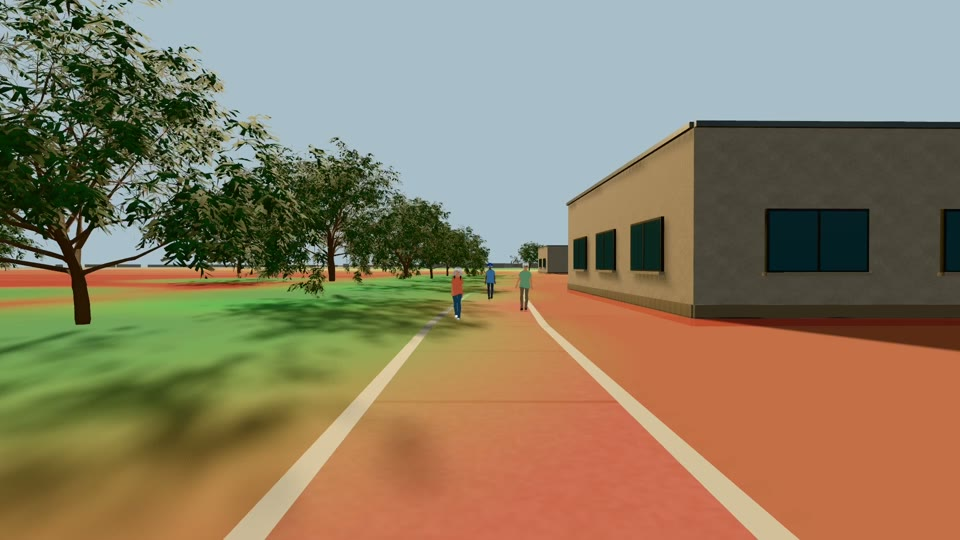
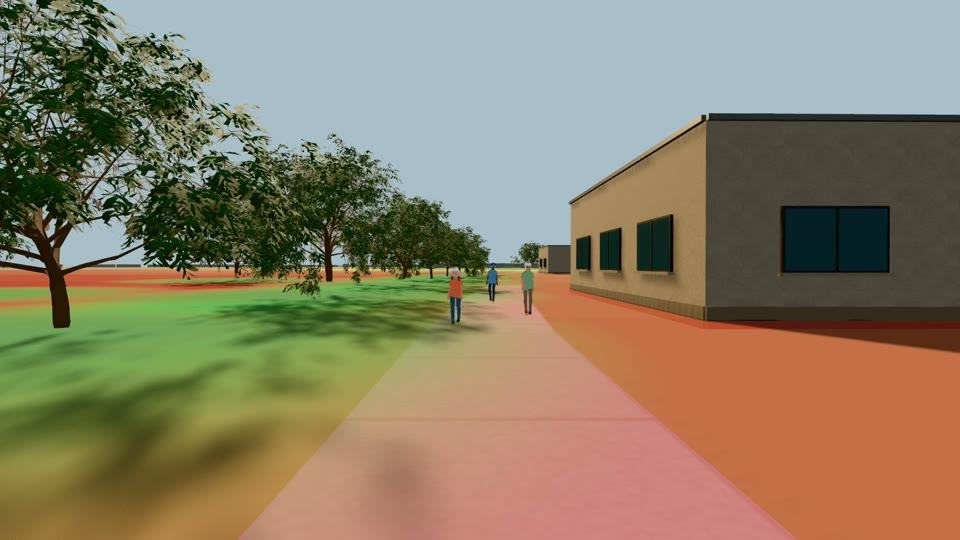
Update FutureFlux tutorial for the narrated cut

diff --git a/docs/about/tutorials/futureflux-mesa.html b/docs/about/tutorials/futureflux-mesa.html
@@ -9,23 +9,23 @@ Generated by blog-webcli (MIT). Licences this page depends on:
 <meta name="viewport" content="width=device-width, initial-scale=1">
 <link rel="stylesheet" href="https://cdnjs.cloudflare.com/ajax/libs/font-awesome/6.7.2/css/all.min.css" integrity="sha512-Evv84Mr4kqVGRNSgIGL/F/aIDqQb7xQ2vcrdIwxfjThSH8CSR7PBEakCr51Ck+w+/U6swU2Im1vVX0SVk9ABhg==" crossorigin="anonymous" referrerpolicy="no-referrer">
 <title>FutureFlux: From a Mesa heat map to a tree-shade proposal · Strata tutorials</title>
-<meta name="description" content="Build a one-minute Mesa heat tour in Strata: compare Landsat samples, stage tree shade, customize VRM walkers, retarget a BVH walk cycle, and add bilingual subtitles.">
+<meta name="description" content="Build a Mesa heat tour in Strata: compare Landsat samples, stage tree shade, make VRM walkers in Look, customize their outfits, and retarget a BVH walk cycle.">
 <meta name="generator" content="blog-webcli">
 <meta name="x-generator" content="blog-webcli@0.5.0">
[2 lines of base64/hex data omitted]
 <link rel="canonical" href="https://strataeditor.dev/about/tutorials/futureflux-mesa.html">
 <link rel="icon" href="https://raw.githubusercontent.com/tejaswigowda/strata-editor/71b04a54462d31995855717d63a32a5868373229/docs/favicon.svg">
 <meta property="og:type" content="website">
 <meta property="og:site_name" content="Strata tutorials">
 <meta property="og:title" content="FutureFlux: From a Mesa heat map to a tree-shade proposal">
-<meta property="og:description" content="Build a one-minute Mesa heat tour in Strata: compare Landsat samples, stage tree shade, customize VRM walkers, retarget a BVH walk cycle, and add bilingual subtitles.">
+<meta property="og:description" content="Build a Mesa heat tour in Strata: compare Landsat samples, stage tree shade, make VRM walkers in Look, customize their outfits, and retarget a BVH walk cycle.">
 <meta property="og:url" content="https://strataeditor.dev/about/tutorials/futureflux-mesa.html">
 <meta property="og:image" content="https://raw.githubusercontent.com/tejaswigowda/strata-editor/71b04a54462d31995855717d63a32a5868373229/docs/demo.png">
 <meta name="twitter:card" content="summary_large_image">
 <meta name="twitter:title" content="FutureFlux: From a Mesa heat map to a tree-shade proposal">
-<meta name="twitter:description" content="Build a one-minute Mesa heat tour in Strata: compare Landsat samples, stage tree shade, customize VRM walkers, retarget a BVH walk cycle, and add bilingual subtitles.">
+<meta name="twitter:description" content="Build a Mesa heat tour in Strata: compare Landsat samples, stage tree shade, make VRM walkers in Look, customize their outfits, and retarget a BVH walk cycle.">
 <meta name="twitter:image" content="https://raw.githubusercontent.com/tejaswigowda/strata-editor/71b04a54462d31995855717d63a32a5868373229/docs/demo.png">
-<script type="application/ld+json">{"@context":"https://schema.org","@type":"WebPage","name":"FutureFlux: From a Mesa heat map to a tree-shade proposal","description":"Build a one-minute Mesa heat tour in Strata: compare Landsat samples, stage tree shade, customize VRM walkers, retarget a BVH walk cycle, and add bilingual subtitles.","url":"https://strataeditor.dev/about/tutorials/futureflux-mesa.html","image":"https://raw.githubusercontent.com/tejaswigowda/strata-editor/71b04a54462d31995855717d63a32a5868373229/docs/demo.png","isPartOf":{"@type":"WebSite","name":"Strata tutorials","url":"https://strataeditor.dev/about/tutorials/"}}</script>
+<script type="application/ld+json">{"@context":"https://schema.org","@type":"WebPage","name":"FutureFlux: From a Mesa heat map to a tree-shade proposal","description":"Build a Mesa heat tour in Strata: compare Landsat samples, stage tree shade, make VRM walkers in Look, customize their outfits, and retarget a BVH walk cycle.","url":"https://strataeditor.dev/about/tutorials/futureflux-mesa.html","image":"https://raw.githubusercontent.com/tejaswigowda/strata-editor/71b04a54462d31995855717d63a32a5868373229/docs/demo.png","isPartOf":{"@type":"WebSite","name":"Strata tutorials","url":"https://strataeditor.dev/about/tutorials/"}}</script>
 <link rel="stylesheet" href="./style.css">
 </head>
 <body class="page-template-default page page-id-76485">
@@ -33,31 +33,18 @@ Generated by blog-webcli (MIT). Licences this page depends on:
 <header class="entry-header alignwide"><h1 class="entry-title">FutureFlux: From a Mesa heat map to a tree-shade proposal</h1>
 </header>
 <div class="entry-content">
-<div class="strata-tutorial-gis-walkway-shade">
-
-</div>
-<h1>
-FutureFlux: From a Mesa heat map to a tree-shade proposal
-</h1>
-<p class="tagline">
-Build a one-minute heat tour in Strata, from mapped geometry and Landsat observations to a proposed tree planting, animated walkers, and bilingual subtitles.
-</p>
-<p><a href="https://strataeditor.dev/about/tutorials/">All tutorials</a> · <a href="https://strataeditor.dev/about/tutorials/gis-walkway-shade.html">Build the base GIS scene by hand</a></p>
-<p>Build a three-site heat tour and a tree-shade proposal for Red Mountain Multigenerational Center in Mesa, Arizona. Start with mapped geometry, keep satellite observations separate from the design, and check each step before moving on. No language model or speech tool is needed for steps 1–8.</p>
-<h3 id="watch-the-one-minute-short">Watch the one-minute short</h3>
-<div class="wc-embed" title="FutureFlux Mesa one-minute short">
-<iframe src="https://strataeditor.dev/player/#https://cdn.jsdelivr.net/gh/tejaswigowda/renders@ac27663268bd3c7105f3de25afea9c0dac86bb84/futureflux-mesa/" title="FutureFlux Mesa one-minute short in the Strata video player" loading="lazy" allow="fullscreen" sandbox="allow-scripts" referrerpolicy="no-referrer"></iframe>
-<a href="https://strataeditor.dev/player/#https://cdn.jsdelivr.net/gh/tejaswigowda/renders@ac27663268bd3c7105f3de25afea9c0dac86bb84/futureflux-mesa/" rel="noopener noreferrer">Open the short in Strata’s video player</a>
-</div>
-<p>60 seconds, 1080p at 30 fps. Use the Strata player’s subtitle menu to switch between English and Español. <a href="https://github.com/tejaswigowda/renders/releases/download/futureflux-mesa-1min-v1/futureflux-mesa.mp4">Download the MP4</a>.</p>
+<div class="strata-tutorial-gis-walkway-shade"></div>
+<h1>FutureFlux: From a Mesa heat map to a tree-shade proposal</h1>
+<p class="tagline">Build a two-minute heat tour in Strata, from mapped geometry and Landsat observations to a proposed tree planting, animated walkers, and bilingual subtitles.</p>
+<p><a href="https://strataeditor.dev/about/tutorials/" rel="noopener noreferrer">All tutorials</a> · <a href="https://strataeditor.dev/about/tutorials/gis-walkway-shade.html" rel="noopener noreferrer">Build the base GIS scene by hand</a></p>
+<p>Build a three-site heat tour and a tree-shade proposal for Red Mountain Multigenerational Center in Mesa, Arizona. Start with mapped geometry, keep satellite observations separate from the design, and check each step before moving on. Dub is optional if you export without narration.</p>
+<h3 id="watch-the-extended-cut">Watch the extended cut</h3>
+<div class="wc-embed" title="FutureFlux Mesa extended cut"><iframe src="https://strataeditor.dev/player/#https://cdn.jsdelivr.net/gh/tejaswigowda/renders@2db2c1a258540a9e0fb139cbc181911923ac71be/futureflux-mesa-extended/" title="FutureFlux Mesa extended cut in the Strata video player" loading="lazy" allow="fullscreen" sandbox="allow-scripts" referrerpolicy="no-referrer"></iframe><a href="https://strataeditor.dev/player/#https://cdn.jsdelivr.net/gh/tejaswigowda/renders@2db2c1a258540a9e0fb139cbc181911923ac71be/futureflux-mesa-extended/" rel="noopener noreferrer">Open the extended cut in Strata’s video player</a></div>
+<p>2:01.5, 1080p at 30 fps. The narration speaks English and then Spanish in each cue. Use the Strata player’s subtitle menu to choose English or Español. <a href="https://github.com/tejaswigowda/renders/releases/download/futureflux-mesa-extended-v1/futureflux-mesa-extended.mp4" rel="noopener noreferrer">Download the MP4</a> · <a href="https://github.com/tejaswigowda/renders/releases/download/futureflux-mesa-extended-v1/futureflux-mesa.narration-retimed.en-es.srt" rel="noopener noreferrer">Download the narration SRT</a>.</p>
 <h3 id="explore-the-interactive-scene">Explore the interactive scene</h3>
-<div class="wc-embed allow-popups" title="Interactive FutureFlux Mesa scene">
-<iframe src="https://strataeditor.dev/#repo=tejaswigowda/test1&amp;file=flux.json&amp;commit=5253c454ec669b952118c4982767c20ba162834f&amp;play=false&amp;present=true" title="Interactive FutureFlux Mesa scene in Strata" loading="lazy" allow="fullscreen" sandbox="allow-scripts allow-popups allow-popups-to-escape-sandbox" referrerpolicy="no-referrer">
-</iframe>
-<a href="https://strataeditor.dev/#repo=tejaswigowda/test1&amp;file=flux.json&amp;commit=5253c454ec669b952118c4982767c20ba162834f&amp;play=false&amp;present=true" rel="noopener noreferrer">Open the pinned scene in Strata</a>
-</div>
-<p>The live call card is not available inside the embedded player. Watch it in the short above or open the pinned scene in Strata to see it there.</p>
-<p><strong>Before starting:</strong> Save unrelated work and use a separate Strata project. The <a href="https://strataeditor.dev/#repo=tejaswigowda/test1&amp;file=flux.json&amp;commit=2e3481b3e47eda46f8bcb6e2287ae8e6a6c9c39b&amp;play=false">original Mesa scene</a> is the older rehearsal fixture, not the finished film. Use the linked base tutorial for complete Shell blocks that construct the original mapped site from an empty scene.</p>
+<div class="wc-embed allow-popups" title="Interactive FutureFlux Mesa scene"><iframe src="https://strataeditor.dev/#repo=tejaswigowda/test1&amp;file=flux.json&amp;commit=4612f3d48b78f314eb810d5af468ea3cfa143708&amp;play=false&amp;present=true" title="Interactive FutureFlux Mesa scene in Strata" loading="lazy" allow="fullscreen" sandbox="allow-scripts allow-popups allow-popups-to-escape-sandbox" referrerpolicy="no-referrer"></iframe><a href="https://strataeditor.dev/#repo=tejaswigowda/test1&amp;file=flux.json&amp;commit=4612f3d48b78f314eb810d5af468ea3cfa143708&amp;play=false&amp;present=true" rel="noopener noreferrer">Open the pinned scene in Strata</a></div>
+<p>The live call card is not available inside the embedded scene. Watch it in the film above or open the pinned scene in Strata to see it there.</p>
+<p><strong>Before starting:</strong> Save unrelated work and use a separate Strata project. The <a href="https://strataeditor.dev/#repo=tejaswigowda/test1&amp;file=flux.json&amp;commit=2e3481b3e47eda46f8bcb6e2287ae8e6a6c9c39b&amp;play=false" rel="noopener noreferrer">original Mesa scene</a> is the older rehearsal fixture, not the finished film. Use the linked base tutorial for complete Shell blocks that construct the original mapped site from an empty scene.</p>
 <h2 id="build-the-site-from-mesa-gis">1. Build the site from Mesa GIS</h2>
 <p>Start with the <a href="https://gis.mesaaz.gov/mesaaz/rest/services?f=pjson">City of Mesa REST catalogue</a>. Use ParkFinder layer 19 path records 30121 (community center) and 30046 (park loop), and CommunityMaps layer 6 building footprint 53258. Keep those IDs on the scene groups so you can trace the meshes back to the source records.</p>
 <p>Project WGS84 records to local meters with origin <code>[-111.667328704, 33.431791272]</code>: x east, y up, z south. Turn each centerline into flat path sections and extrude the mapped footprint vertically. The 3.3 m paths and 6 m shell are assumptions, not surveyed dimensions. Keep OpenStreetMap service roads, parking, and sports fields in a separate context group so they do not replace the Mesa features.</p>
@@ -88,47 +75,27 @@ The comparison view uses one temperature palette across Encanto, Alta Mesa, and 
 <p><strong>Human check:</strong> Reload a saved copy. Trees should not change size, sink into the ground, or appear before their reveal. At eye level the material maps should still load and the façade should not change the mapped footprint.</p>
 <h2 id="make-the-shade-visible-without-changing-the-observation">5. Make the shade visible without changing the observation</h2>
 <p>Use a separate shadow receiver over the Red Mountain heat surface so the colored layer does not wash out the tree shadows. The walkthrough uses an illustrative light setup, not a dated solar study. Put the qualitative shade-benefit indicator at the top of the walkway view, and turn it green as trees appear. Keep it separate from the historical temperature legend.</p>
-<p>Tree canopies block direct sunlight, so shaded pavement absorbs less solar energy and can stay cooler than pavement in full sun. Add a separate, progressively stronger green overlay and label it <strong>Illustrative cooling · not measured</strong>. A pale stone border above the heat layers helps viewers follow the path while leaving the pavement tint visible. Neither the border nor the overlay changes the Landsat data.</p>
-<p><strong>Human check:</strong> Compare 36 s and 45 s from the same walkway camera. There should be more visible shade at 45 s, but the Landsat layer and its 51.5 °C sample should be unchanged. The green indicator must not resemble a new temperature reading.</p>
-<figure>
-<img src="./screenshots/futureflux-before.webp" alt="Red Mountain walkway and center before the proposed trees appear" width="1600" height="900">
-<figcaption>
-37 s · An earlier preview of the walkway before proposed planting.
-</figcaption>
-</figure>
-<figure>
-<img src="./screenshots/futureflux-shade.webp" alt="Same Red Mountain walkway with proposed mesquites along the left side" width="1600" height="900">
-<figcaption>
-45 s · An earlier preview after all 18 proposed mesquites appear. These two stills predate the final walkers and walkway border.
-</figcaption>
-</figure>
+<p>Tree canopies block direct sunlight, so shaded pavement absorbs less solar energy and can stay cooler than pavement in full sun. Add a separate, progressively stronger green overlay and label it <strong>Illustrative cooling · not measured</strong>. Remove the separate walkway outline and tint alternating slabs pale blue-gray so viewers can follow the path under the heat overlay. Neither the slab colors nor the overlay changes the Landsat data.</p>
+<p><strong>Human check:</strong> Compare 1:19 and 1:42 from the same walkway camera. There should be more visible shade at 1:42, but the Landsat layer and its 51.5 °C sample should be unchanged. The green indicator must not resemble a new temperature reading.</p>
+<p>RAWHOLD5TOKEN RAWHOLD6TOKEN</p>
 <h2 id="animate-and-check-the-three-shots">6. Animate and check the three shots</h2>
 <p>In <strong>Render → Video → Camera Sequence</strong>, use a city opening camera, a comparison camera, and an eye-level walkway camera. Animate the city camera down toward Encanto while fading the city group. Match the first two cameras’ position, aim, and field of view at the handoff so the viewport does not jump even when it is not compositing the export fade.</p>
-<ul>
-<li><strong>0–12 s:</strong> Hold the city view, start the eased push-in at 4 s, fade the title and boundary from 5 to 9 s, and switch cameras at about 9 s. Settle over Encanto at 12 s.</li>
-<li><strong>12–36 s:</strong> Hold Encanto, pull back to show the first distance arrow, settle over Alta Mesa at 21 s, and pull back for the second arrow. Reach Red Mountain at 30 s, then descend from 32 to 36 s.</li>
-<li><strong>36–48 s:</strong> Glide forward at eye level without changing the lens. Reveal three proposed trees at 38 s, eight total at 41 s, and eighteen at 44 s.</li>
-</ul>
+<ul><li><strong>0:00–0:20:</strong> Open over Mesa, then fade to the matched comparison camera at 0:14.5 and push in on Encanto.</li><li><strong>0:20–1:18:</strong> Start the site close-ups at 0:20 (Encanto), 0:43 (Alta Mesa), and 1:05.5 (Red Mountain). Keep the site labels readable while both languages are spoken; pull back between sites to show the distance arrows.</li><li><strong>1:18–1:49.5:</strong> Glide forward at eye level. Reveal three proposed trees at 1:26.5, eight total at 1:33, and eighteen at 1:40.</li></ul>
 <p><strong>Human check:</strong> Enable the timeline’s follow-camera checkbox and use <strong>as render</strong>. Scrub backward and forward across the first handoff and all three planting beats. The opening should restore on rewind, the camera should not snap at the switch, and the planting counts should agree with the indicator.</p>
 <h2 id="import-customize-and-animate-the-walkers">7. Import, customize, and animate the walkers</h2>
-<ol type="1">
-<li>Import the three <code>.vrm</code> files into Strata and name their root groups <strong>Maya</strong>, <strong>Alex</strong>, and <strong>Jordan</strong>. Remove the old placeholder bodies and heads only after checking that no timeline track targets them. Place the new roots within the stone borders at human scale.</li>
-<li>In <strong>Customize → Wardrobe</strong>, select each avatar by name and use <strong>Recolor</strong> on the existing top and bottom. Maya wears rust and navy, Alex sage and brown, and Jordan blue and charcoal. Recolor the existing garments instead of adding new meshes that would need skin weights.</li>
-<li>Parse <code>walk-cycle.bvh</code> with Three.js <code>BVHLoader</code>. This file has 42 samples at about 24 fps. Map the source joints to the VRoid <code>J_Bip_</code> bones: <code>Hips</code> to <code>C_Hips</code>, <code>Ab</code> to <code>C_Spine</code>, <code>LeftShoulder</code> to <code>L_UpperArm</code>, and <code>LeftHip</code>, <code>LeftKnee</code>, and <code>LeftAnkle</code> to <code>L_UpperLeg</code>, <code>L_LowerLeg</code>, and <code>L_Foot</code>, with equivalent right-side mappings. Include spine, collar, head, elbow, and wrist rotation. In this scene the BVH faces +Z while the avatars face local −Z, so convert the rotations with a half-turn about Y. Do not copy the BVH’s joint offsets or its raw hip height over the VRM rest skeleton.</li>
-<li>Scale the source’s forward travel using each avatar’s leg length and direct it along the path. Offset the loop phases so their feet do not land together. Sample the shoe meshes when baking to calibrate root height to the pavement, then save the 19 bone-rotation tracks and two root-transform tracks per avatar. The finished clips use the source cycle from <strong>36.25 to 48 seconds</strong>; the closing card covers the motion hold after that. These clips were retargeted directly in Strata with the loader and saved as imported clips, not generated in the Customize tab.</li>
-</ol>
+<ol><li>Make <strong>Maya</strong>, <strong>Alex</strong>, and <strong>Jordan</strong> in <a href="https://look.webcli.app/" rel="noopener noreferrer">Look (look.webcli.app)</a>. Start with a bundled base VRM or open your own, customize the character in Look, then export a <code>.vrm</code> for each walker. Import those three files into Strata, name the root groups, and place the walkers on the slabs at human scale. Remove the old placeholders only after checking that no timeline track targets them.</li><li>In <strong>Customize → Wardrobe</strong>, select each avatar by name and use <strong>Recolor</strong> on the existing top and bottom. Maya wears rust and navy, Alex sage and brown, and Jordan blue and charcoal. Recolor the existing garments instead of adding new meshes that would need skin weights.</li><li>Parse <code>walk-cycle.bvh</code> with Three.js <code>BVHLoader</code>. This file has 42 samples at about 24 fps. Map the source joints to the VRoid <code>J_Bip_</code> bones: <code>Hips</code> to <code>C_Hips</code>, <code>Ab</code> to <code>C_Spine</code>, <code>LeftShoulder</code> to <code>L_UpperArm</code>, and <code>LeftHip</code>, <code>LeftKnee</code>, and <code>LeftAnkle</code> to <code>L_UpperLeg</code>, <code>L_LowerLeg</code>, and <code>L_Foot</code>, with equivalent right-side mappings. Include spine, collar, head, elbow, and wrist rotation. In this scene the BVH faces +Z while the avatars face local −Z, so convert the rotations with a half-turn about Y. Do not copy the BVH’s joint offsets or its raw hip height over the VRM rest skeleton.</li><li>Scale the source’s forward travel using each avatar’s leg length and direct it along the path. Offset the loop phases so their feet do not land together. Sample the shoe meshes when baking to calibrate root height to the pavement, then save the 19 bone-rotation tracks and two root-transform tracks per avatar. The extended cut retimes those clips to the walkway dolly, from <strong>1:18.25 to 1:49.5</strong>. The motion was retargeted directly in Strata, not generated in Look or the Customize tab.</li></ol>
 <p>The imported meshes initially repeated unreferenced vertices across material groups. Compact each indexed group without changing the geometry it draws, then store in-range facial morph deltas with normalized 16-bit integers. The subsequent optimization reduced character geometry in the saved scene from 64.7 MB to 41.5 MB without removing expressions, textures, or rigs.</p>
 <figure>
-<img src="./screenshots/futureflux-final-walkway.jpg" alt="Three walkers in rust, blue, and sage on the outlined Red Mountain path" width="960" height="540" loading="lazy">
+<img src="./screenshots/futureflux-final-walkway.jpg" alt="Three walkers in rust, blue, and sage on the Red Mountain walkway" width="960" height="540" loading="lazy">
 <figcaption>
-42 s · The final render shows the retargeted walkers, the stone border, and the illustrative cooling overlay.
+1:36 · Maya, Alex, and Jordan walk along the recolored slabs beside the illustrative cooling overlay.
 </figcaption>
 </figure>
 <p><strong>Human check:</strong> Scrub several parts of the final shot and rewind. Check for moving knees, opposed arm swing, feet close to the pavement, distinct strides, and no walkers leaving the path. Reopen a copy and check that all three imported clips still target the correct bones.</p>
 <h2 id="add-bilingual-subtitles-the-call-card-and-export">8. Add bilingual subtitles, the call card, and export</h2>
 <p>Open <strong>Render → Subtitles</strong> and import timed SRT cues. The bilingual format uses English first and Spanish second. The three historical samples are <strong>137.3 °F, 120.4 °F, and 124.7 °F</strong> in English and <strong>58,5 °C, 49,1 °C, and 51,5 °C</strong> in Spanish. Close by explaining that the proposed trees provide shade, not a measured temperature drop.</p>
-<p>Fade in Strata’s first-party call card and a dark backdrop after the last cue at 48 seconds. Hold the card in the authored timeline through <strong>58 seconds</strong>; Strata adds a <strong>two-second render tail</strong>, for exactly <strong>60 seconds</strong> in the export. The editor loads the current call card live; the offline render bakes that version into the film.</p>
-<p>In <strong>Render → Video</strong>, leave <strong>Skip First</strong> at <strong>None</strong>. The one-minute export uses <strong>1080p at 30 fps (1,800 frames)</strong>. The embedded Strata video player offers separate English and Spanish subtitles from the scene’s timed cues. Leave the call card free of overlapping cues so viewers have time to scan the QR code.</p>
+<p>After the final cue, keep the same walkway camera and crane up to a tight, directly overhead view. Lay Strata’s transparent call card flat on the roof like painted lettering, without a dark backing. Hold the top-down shot from <strong>1:55.5</strong> through the authored end at <strong>1:59.5</strong>. The two-second render tail brings the export to <strong>2:01.5</strong>. The editor loads the call card live; the offline render bakes it into the film.</p>
+<p>In <strong>Render → Video</strong>, leave <strong>Skip First</strong> at <strong>None</strong>. The extended export uses <strong>1080p at 30 fps (3,645 frames)</strong>. Use the retimed bilingual SRT for Dub: give each cue enough room for both spoken lines before the next cue starts. For the player, split the same timed text into selectable English and Spanish subtitle tracks. Leave the rooftop shot free of cues so viewers have time to scan the QR code.</p>
 <p><strong>Human check:</strong> Save and reopen a copy. Confirm the three camera beats, embedded textures, tree stages, and caption units. Read the map legend and credits at output size before exporting.</p>
 <h3 id="sources-and-credits">Sources and credits</h3>
 <ul>

diff --git a/docs/about/tutorials/pages/futureflux-mesa.md b/docs/about/tutorials/pages/futureflux-mesa.md
@@ -2,28 +2,28 @@
 slug: futureflux-mesa
 title: "FutureFlux: From a Mesa heat map to a tree-shade proposal"
 status: published
-description: "Build a one-minute Mesa heat tour in Strata: compare Landsat samples, stage tree shade, customize VRM walkers, retarget a BVH walk cycle, and add bilingual subtitles."
+description: "Build a Mesa heat tour in Strata: compare Landsat samples, stage tree shade, make VRM walkers in Look, customize their outfits, and retarget a BVH walk cycle."
 ---
 
 <div class="strata-tutorial-gis-walkway-shade"></div>
 <h1>FutureFlux: From a Mesa heat map to a tree-shade proposal</h1>
-<p class="tagline">Build a one-minute heat tour in Strata, from mapped geometry and Landsat observations to a proposed tree planting, animated walkers, and bilingual subtitles.</p>
+<p class="tagline">Build a two-minute heat tour in Strata, from mapped geometry and Landsat observations to a proposed tree planting, animated walkers, and bilingual subtitles.</p>
 
 [All tutorials](https://strataeditor.dev/about/tutorials/) · [Build the base GIS scene by hand](https://strataeditor.dev/about/tutorials/gis-walkway-shade.html)
 
-Build a three-site heat tour and a tree-shade proposal for Red Mountain Multigenerational Center in Mesa, Arizona. Start with mapped geometry, keep satellite observations separate from the design, and check each step before moving on. No language model or speech tool is needed for steps 1–8.
+Build a three-site heat tour and a tree-shade proposal for Red Mountain Multigenerational Center in Mesa, Arizona. Start with mapped geometry, keep satellite observations separate from the design, and check each step before moving on. Dub is optional if you export without narration.
 
-### Watch the one-minute short
+### Watch the extended cut
 
-<div class="wc-embed" title="FutureFlux Mesa one-minute short"><iframe src="https://strataeditor.dev/player/#https://cdn.jsdelivr.net/gh/tejaswigowda/renders@ac27663268bd3c7105f3de25afea9c0dac86bb84/futureflux-mesa/" title="FutureFlux Mesa one-minute short in the Strata video player" loading="lazy" allow="fullscreen" sandbox="allow-scripts" referrerpolicy="no-referrer"></iframe><a href="https://strataeditor.dev/player/#https://cdn.jsdelivr.net/gh/tejaswigowda/renders@ac27663268bd3c7105f3de25afea9c0dac86bb84/futureflux-mesa/" rel="noopener noreferrer">Open the short in Strata’s video player</a></div>
+<div class="wc-embed" title="FutureFlux Mesa extended cut"><iframe src="https://strataeditor.dev/player/#https://cdn.jsdelivr.net/gh/tejaswigowda/renders@2db2c1a258540a9e0fb139cbc181911923ac71be/futureflux-mesa-extended/" title="FutureFlux Mesa extended cut in the Strata video player" loading="lazy" allow="fullscreen" sandbox="allow-scripts" referrerpolicy="no-referrer"></iframe><a href="https://strataeditor.dev/player/#https://cdn.jsdelivr.net/gh/tejaswigowda/renders@2db2c1a258540a9e0fb139cbc181911923ac71be/futureflux-mesa-extended/" rel="noopener noreferrer">Open the extended cut in Strata’s video player</a></div>
 
-60 seconds, 1080p at 30 fps. Use the Strata player’s subtitle menu to switch between English and Español. [Download the MP4](https://github.com/tejaswigowda/renders/releases/download/futureflux-mesa-1min-v1/futureflux-mesa.mp4).
+2:01.5, 1080p at 30 fps. The narration speaks English and then Spanish in each cue. Use the Strata player’s subtitle menu to choose English or Español. [Download the MP4](https://github.com/tejaswigowda/renders/releases/download/futureflux-mesa-extended-v1/futureflux-mesa-extended.mp4) · [Download the narration SRT](https://github.com/tejaswigowda/renders/releases/download/futureflux-mesa-extended-v1/futureflux-mesa.narration-retimed.en-es.srt).
 
 ### Explore the interactive scene
 
-<div class="wc-embed allow-popups" title="Interactive FutureFlux Mesa scene"><iframe src="https://strataeditor.dev/#repo=tejaswigowda/test1&amp;file=flux.json&amp;commit=5253c454ec669b952118c4982767c20ba162834f&amp;play=false&amp;present=true" title="Interactive FutureFlux Mesa scene in Strata" loading="lazy" allow="fullscreen" sandbox="allow-scripts allow-popups allow-popups-to-escape-sandbox" referrerpolicy="no-referrer"></iframe><a href="https://strataeditor.dev/#repo=tejaswigowda/test1&amp;file=flux.json&amp;commit=5253c454ec669b952118c4982767c20ba162834f&amp;play=false&amp;present=true" rel="noopener noreferrer">Open the pinned scene in Strata</a></div>
+<div class="wc-embed allow-popups" title="Interactive FutureFlux Mesa scene"><iframe src="https://strataeditor.dev/#repo=tejaswigowda/test1&amp;file=flux.json&amp;commit=4612f3d48b78f314eb810d5af468ea3cfa143708&amp;play=false&amp;present=true" title="Interactive FutureFlux Mesa scene in Strata" loading="lazy" allow="fullscreen" sandbox="allow-scripts allow-popups allow-popups-to-escape-sandbox" referrerpolicy="no-referrer"></iframe><a href="https://strataeditor.dev/#repo=tejaswigowda/test1&amp;file=flux.json&amp;commit=4612f3d48b78f314eb810d5af468ea3cfa143708&amp;play=false&amp;present=true" rel="noopener noreferrer">Open the pinned scene in Strata</a></div>
 
-The live call card is not available inside the embedded player. Watch it in the short above or open the pinned scene in Strata to see it there.
+The live call card is not available inside the embedded scene. Watch it in the film above or open the pinned scene in Strata to see it there.
 
 **Before starting:** Save unrelated work and use a separate Strata project. The [original Mesa scene](https://strataeditor.dev/#repo=tejaswigowda/test1&file=flux.json&commit=2e3481b3e47eda46f8bcb6e2287ae8e6a6c9c39b&play=false) is the older rehearsal fixture, not the finished film. Use the linked base tutorial for complete Shell blocks that construct the original mapped site from an empty scene.
 
@@ -67,9 +67,9 @@ Use two shared mesquite variants (`tree4` and `tree5`) for the eight baseline tr
 
 Use a separate shadow receiver over the Red Mountain heat surface so the colored layer does not wash out the tree shadows. The walkthrough uses an illustrative light setup, not a dated solar study. Put the qualitative shade-benefit indicator at the top of the walkway view, and turn it green as trees appear. Keep it separate from the historical temperature legend.
 
-Tree canopies block direct sunlight, so shaded pavement absorbs less solar energy and can stay cooler than pavement in full sun. Add a separate, progressively stronger green overlay and label it **Illustrative cooling · not measured**. A pale stone border above the heat layers helps viewers follow the path while leaving the pavement tint visible. Neither the border nor the overlay changes the Landsat data.
+Tree canopies block direct sunlight, so shaded pavement absorbs less solar energy and can stay cooler than pavement in full sun. Add a separate, progressively stronger green overlay and label it **Illustrative cooling · not measured**. Remove the separate walkway outline and tint alternating slabs pale blue-gray so viewers can follow the path under the heat overlay. Neither the slab colors nor the overlay changes the Landsat data.
 
-**Human check:** Compare 36 s and 45 s from the same walkway camera. There should be more visible shade at 45 s, but the Landsat layer and its 51.5 °C sample should be unchanged. The green indicator must not resemble a new temperature reading.
+**Human check:** Compare 1:19 and 1:42 from the same walkway camera. There should be more visible shade at 1:42, but the Landsat layer and its 51.5 °C sample should be unchanged. The green indicator must not resemble a new temperature reading.
 
 <figure><img src="./screenshots/futureflux-before.webp" alt="Red Mountain walkway and center before the proposed trees appear" width="1600" height="900"><figcaption>37 s · An earlier preview of the walkway before proposed planting.</figcaption></figure>
 <figure><img src="./screenshots/futureflux-shade.webp" alt="Same Red Mountain walkway with proposed mesquites along the left side" width="1600" height="900"><figcaption>45 s · An earlier preview after all 18 proposed mesquites appear. These two stills predate the final walkers and walkway border.</figcaption></figure>
@@ -78,22 +78,22 @@ Tree canopies block direct sunlight, so shaded pavement absorbs less solar energ
 
 In **Render → Video → Camera Sequence**, use a city opening camera, a comparison camera, and an eye-level walkway camera. Animate the city camera down toward Encanto while fading the city group. Match the first two cameras’ position, aim, and field of view at the handoff so the viewport does not jump even when it is not compositing the export fade.
 
-- **0–12 s:** Hold the city view, start the eased push-in at 4 s, fade the title and boundary from 5 to 9 s, and switch cameras at about 9 s. Settle over Encanto at 12 s.
-- **12–36 s:** Hold Encanto, pull back to show the first distance arrow, settle over Alta Mesa at 21 s, and pull back for the second arrow. Reach Red Mountain at 30 s, then descend from 32 to 36 s.
-- **36–48 s:** Glide forward at eye level without changing the lens. Reveal three proposed trees at 38 s, eight total at 41 s, and eighteen at 44 s.
+- **0:00–0:20:** Open over Mesa, then fade to the matched comparison camera at 0:14.5 and push in on Encanto.
+- **0:20–1:18:** Start the site close-ups at 0:20 (Encanto), 0:43 (Alta Mesa), and 1:05.5 (Red Mountain). Keep the site labels readable while both languages are spoken; pull back between sites to show the distance arrows.
+- **1:18–1:49.5:** Glide forward at eye level. Reveal three proposed trees at 1:26.5, eight total at 1:33, and eighteen at 1:40.
 
 **Human check:** Enable the timeline’s follow-camera checkbox and use **as render**. Scrub backward and forward across the first handoff and all three planting beats. The opening should restore on rewind, the camera should not snap at the switch, and the planting counts should agree with the indicator.
 
 ## 7. Import, customize, and animate the walkers
 
-1. Import the three `.vrm` files into Strata and name their root groups **Maya**, **Alex**, and **Jordan**. Remove the old placeholder bodies and heads only after checking that no timeline track targets them. Place the new roots within the stone borders at human scale.
+1. Make **Maya**, **Alex**, and **Jordan** in [Look (look.webcli.app)](https://look.webcli.app/). Start with a bundled base VRM or open your own, customize the character in Look, then export a `.vrm` for each walker. Import those three files into Strata, name the root groups, and place the walkers on the slabs at human scale. Remove the old placeholders only after checking that no timeline track targets them.
 2. In **Customize → Wardrobe**, select each avatar by name and use **Recolor** on the existing top and bottom. Maya wears rust and navy, Alex sage and brown, and Jordan blue and charcoal. Recolor the existing garments instead of adding new meshes that would need skin weights.
 3. Parse `walk-cycle.bvh` with Three.js `BVHLoader`. This file has 42 samples at about 24 fps. Map the source joints to the VRoid `J_Bip_` bones: `Hips` to `C_Hips`, `Ab` to `C_Spine`, `LeftShoulder` to `L_UpperArm`, and `LeftHip`, `LeftKnee`, and `LeftAnkle` to `L_UpperLeg`, `L_LowerLeg`, and `L_Foot`, with equivalent right-side mappings. Include spine, collar, head, elbow, and wrist rotation. In this scene the BVH faces +Z while the avatars face local −Z, so convert the rotations with a half-turn about Y. Do not copy the BVH’s joint offsets or its raw hip height over the VRM rest skeleton.
-4. Scale the source’s forward travel using each avatar’s leg length and direct it along the path. Offset the loop phases so their feet do not land together. Sample the shoe meshes when baking to calibrate root height to the pavement, then save the 19 bone-rotation tracks and two root-transform tracks per avatar. The finished clips use the source cycle from **36.25 to 48 seconds**; the closing card covers the motion hold after that. These clips were retargeted directly in Strata with the loader and saved as imported clips, not generated in the Customize tab.
+4. Scale the source’s forward travel using each avatar’s leg length and direct it along the path. Offset the loop phases so their feet do not land together. Sample the shoe meshes when baking to calibrate root height to the pavement, then save the 19 bone-rotation tracks and two root-transform tracks per avatar. The extended cut retimes those clips to the walkway dolly, from **1:18.25 to 1:49.5**. The motion was retargeted directly in Strata, not generated in Look or the Customize tab.
 
 The imported meshes initially repeated unreferenced vertices across material groups. Compact each indexed group without changing the geometry it draws, then store in-range facial morph deltas with normalized 16-bit integers. The subsequent optimization reduced character geometry in the saved scene from 64.7 MB to 41.5 MB without removing expressions, textures, or rigs.
 
-<figure><img src="./screenshots/futureflux-final-walkway.jpg" alt="Three walkers in rust, blue, and sage on the outlined Red Mountain path" width="960" height="540" loading="lazy"><figcaption>42 s · The final render shows the retargeted walkers, the stone border, and the illustrative cooling overlay.</figcaption></figure>
+<figure><img src="./screenshots/futureflux-final-walkway.jpg" alt="Three walkers in rust, blue, and sage on the Red Mountain walkway" width="960" height="540" loading="lazy"><figcaption>1:36 · Maya, Alex, and Jordan walk along the recolored slabs beside the illustrative cooling overlay.</figcaption></figure>
 
 **Human check:** Scrub several parts of the final shot and rewind. Check for moving knees, opposed arm swing, feet close to the pavement, distinct strides, and no walkers leaving the path. Reopen a copy and check that all three imported clips still target the correct bones.
 
@@ -101,9 +101,9 @@ The imported meshes initially repeated unreferenced vertices across material gro
 
 Open **Render → Subtitles** and import timed SRT cues. The bilingual format uses English first and Spanish second. The three historical samples are **137.3 °F, 120.4 °F, and 124.7 °F** in English and **58,5 °C, 49,1 °C, and 51,5 °C** in Spanish. Close by explaining that the proposed trees provide shade, not a measured temperature drop.
 
-Fade in Strata’s first-party call card and a dark backdrop after the last cue at 48 seconds. Hold the card in the authored timeline through **58 seconds**; Strata adds a **two-second render tail**, for exactly **60 seconds** in the export. The editor loads the current call card live; the offline render bakes that version into the film.
+After the final cue, keep the same walkway camera and crane up to a tight, directly overhead view. Lay Strata’s transparent call card flat on the roof like painted lettering, without a dark backing. Hold the top-down shot from **1:55.5** through the authored end at **1:59.5**. The two-second render tail brings the export to **2:01.5**. The editor loads the call card live; the offline render bakes it into the film.
 
-In **Render → Video**, leave **Skip First** at **None**. The one-minute export uses **1080p at 30 fps (1,800 frames)**. The embedded Strata video player offers separate English and Spanish subtitles from the scene’s timed cues. Leave the call card free of overlapping cues so viewers have time to scan the QR code.
+In **Render → Video**, leave **Skip First** at **None**. The extended export uses **1080p at 30 fps (3,645 frames)**. Use the retimed bilingual SRT for Dub: give each cue enough room for both spoken lines before the next cue starts. For the player, split the same timed text into selectable English and Spanish subtitle tracks. Leave the rooftop shot free of cues so viewers have time to scan the QR code.
 
 **Human check:** Save and reopen a copy. Confirm the three camera beats, embedded textures, tree stages, and caption units. Read the map legend and credits at output size before exporting.
 
